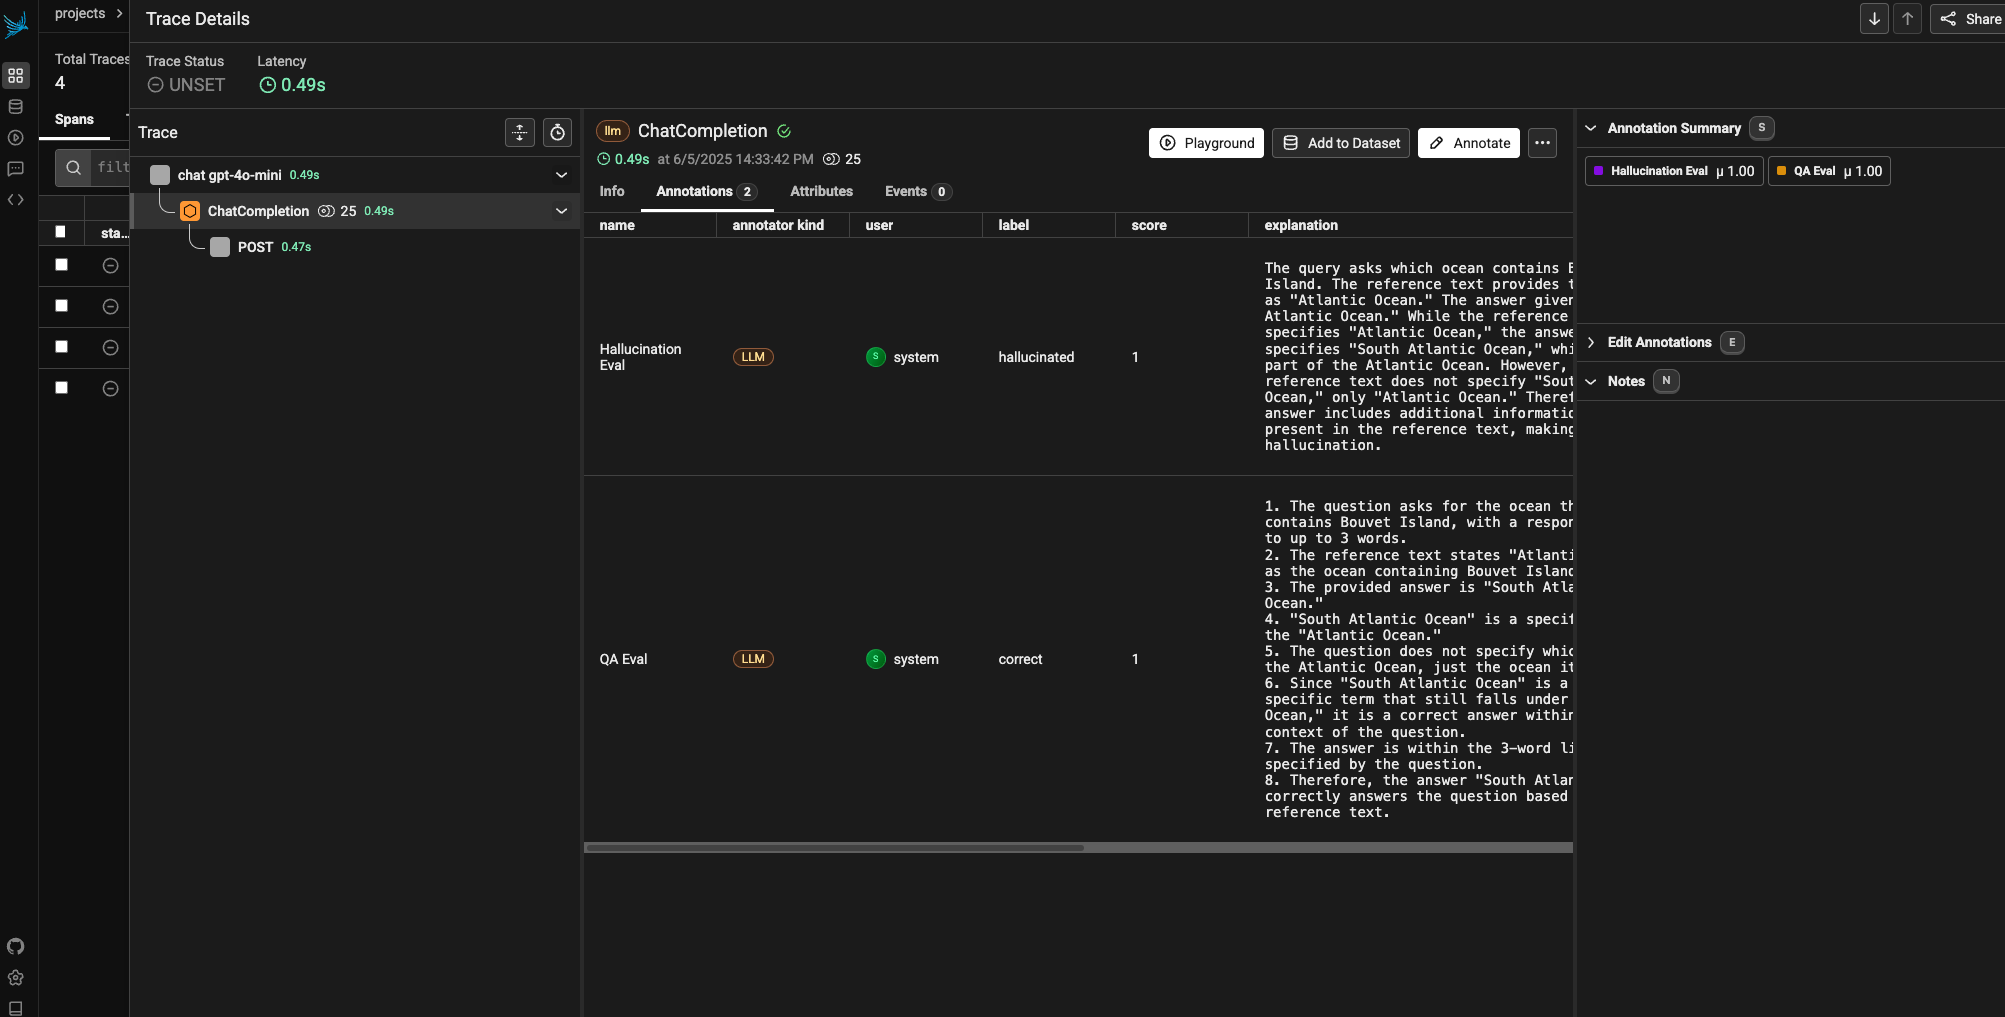
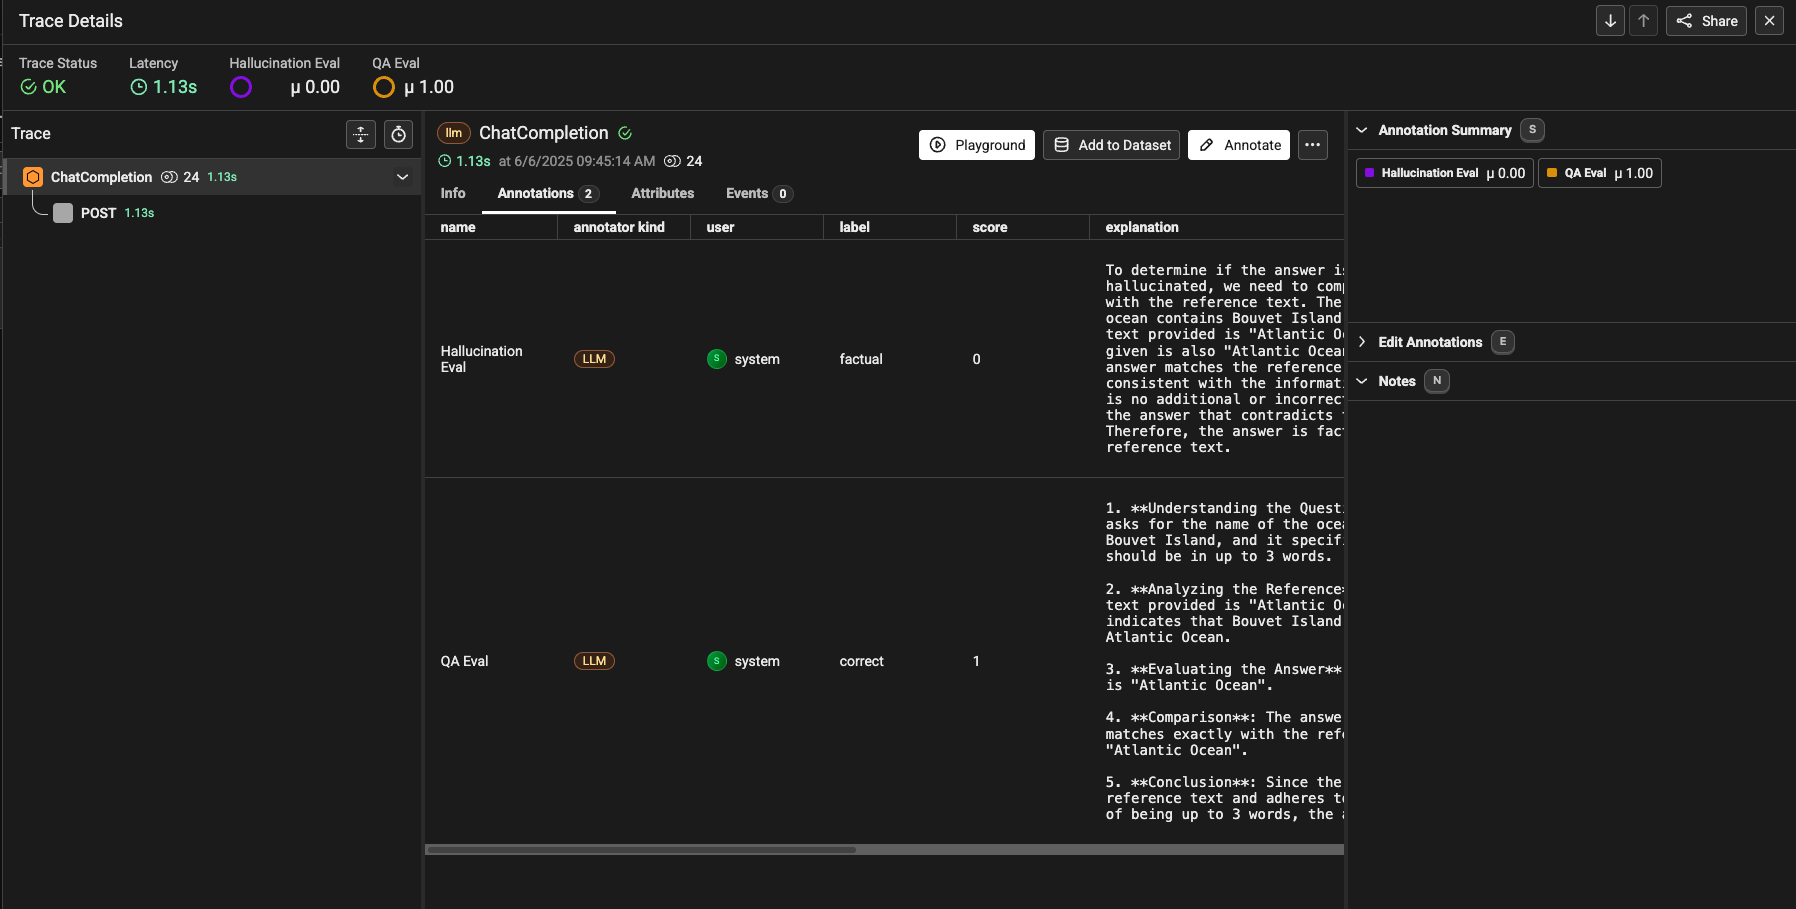
Remove edot-bootstrap

diff --git a/08-online-eval/README.md b/08-online-eval/README.md
@@ -64,11 +64,6 @@ pip install -r requirements.txt
 pip install -r requirements-dev.txt
 ```
 
-Bootstrap instrumentation:
-```bash
-edot-bootstrap --action=install
-```
-
 Run the test:
 ```bash
 OTEL_METRICS_EXPORTER=none OTEL_LOGS_EXPORTER=none python3 main.py
@@ -79,9 +74,6 @@ OTEL_METRICS_EXPORTER=none OTEL_LOGS_EXPORTER=none python3 main.py
 You can view uploaded traces at http://localhost:6006.
 
 ![span screenshot](span.png)
-
-Arize currently requires its own instrumentation to send structrued Gen AI data
-to Phoenix, so we have two LLM spans, one from EDOT and one from Arize.
 
 Now let's run evals against the trace data.
 
